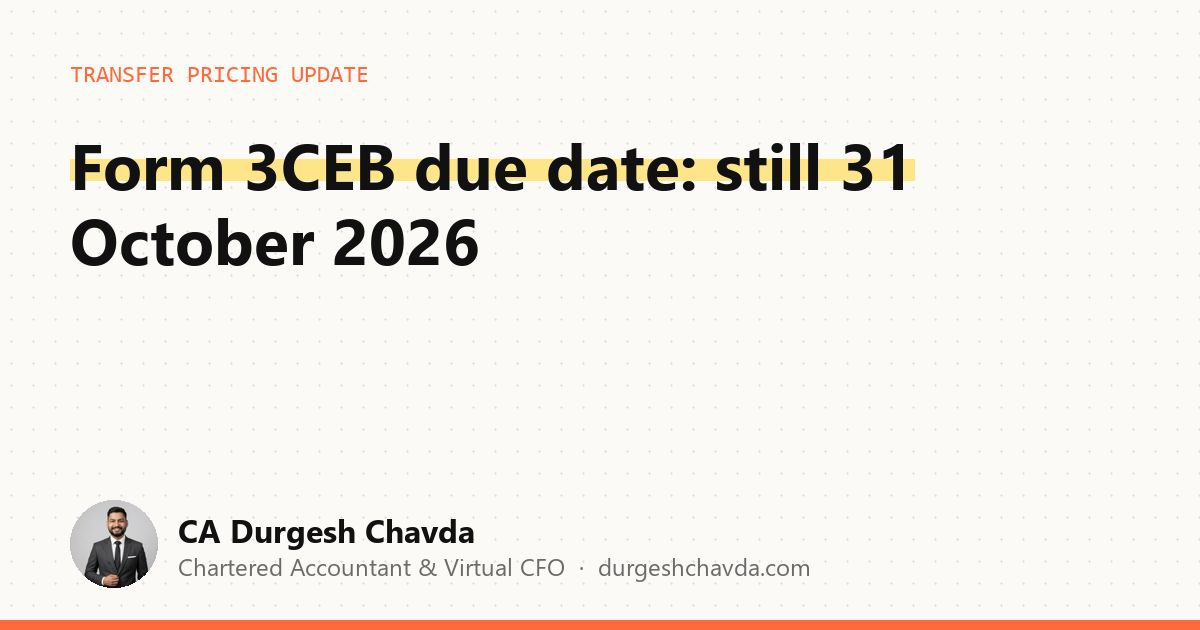
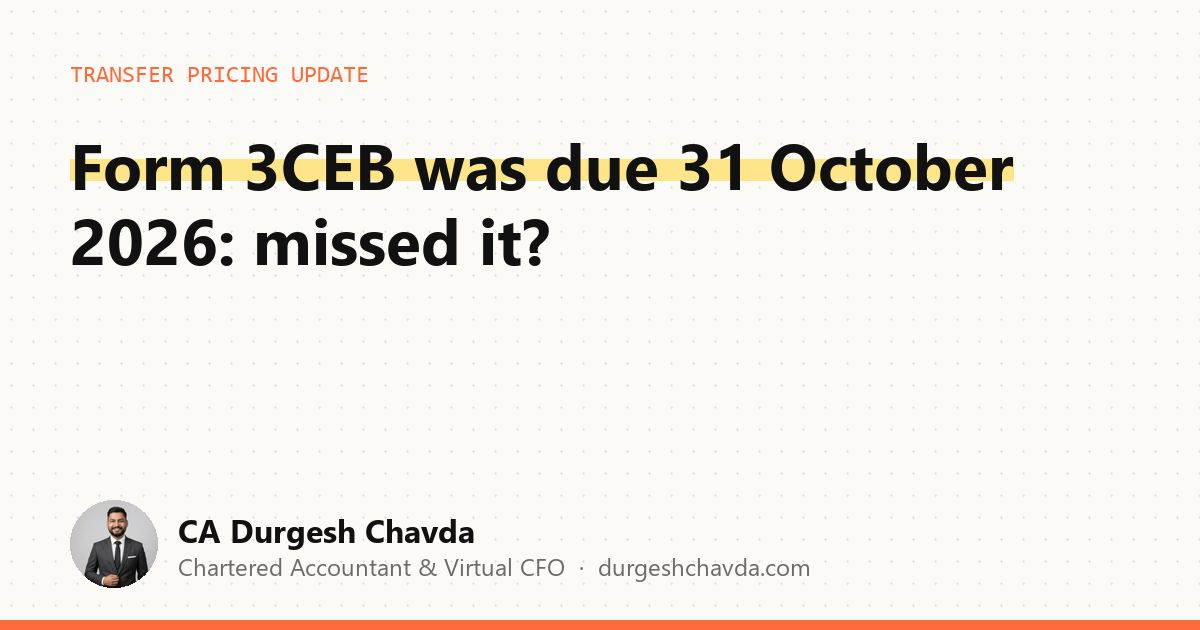
Form 3CEB page: H1 matches 'missed it' framing (31 Oct passed)

Changed region(s): [[0.3392, 0.2111, 0.8633, 0.3016], [0.0617, 0.3317, 0.4625, 0.4222]]

diff --git a/insights/form-3ceb-due-date-ay-2026-27/index.html b/insights/form-3ceb-due-date-ay-2026-27/index.html
@@ -62,7 +62,7 @@
   {
    "@type": "BlogPosting",
    "@id": "https://www.durgeshchavda.com/insights/form-3ceb-due-date-ay-2026-27/#article",
-   "headline": "Form 3CEB due date: still 31 October 2026",
+   "headline": "Form 3CEB was due 31 October 2026: missed it?",
    "description": "Form 3CEB was due 31 Oct 2026, with no extension for transfer-pricing cases. Missed it? File now: ₹1 lakh penalty, reasonable cause, ITR by 30 Nov.",
    "url": "https://www.durgeshchavda.com/insights/form-3ceb-due-date-ay-2026-27/",
    "mainEntityOfPage": "https://www.durgeshchavda.com/insights/form-3ceb-due-date-ay-2026-27/",
@@ -229,7 +229,7 @@
   <div class="wrap">
     <nav class="crumbs rv" aria-label="Breadcrumb"><a href="/">Home</a> <span>/</span> <a href="/insights/">Insights</a> <span>/</span> <span aria-current="page">Form 3CEB due date</span></nav>
     <div class="eyebrow rv" style="margin-top:26px"><svg><use href="#sq-sm"/></svg>Transfer pricing update</div>
-    <h1 class="rv">Form 3CEB due date: <mark>still 31 October 2026</mark></h1>
+    <h1 class="rv">Form 3CEB was due <mark>31 October 2026</mark>: missed it?</h1>
     <p class="lead rv">CBDT&rsquo;s Circular 7/2026 gave audit cases until 21 October and 21 November — but it didn&rsquo;t cover transfer-pricing cases. If your company has international transactions with group entities, plan for 31 October.</p>
     <div class="byline"><picture><source type="image/webp" srcset="/assets/durgesh-thumb-144.webp"/><img src="/assets/durgesh-thumb-144.jpg" alt="CA Durgesh Chavda" width="34" height="34"/></picture><span>By <a href="/about/" rel="author" style="color:var(--ink)">CA Durgesh Chavda</a></span><span>·</span><span>Last reviewed <time datetime="2026-11-01">1 November 2026</time></span><span>·</span><span>5 min read</span></div>
     <div class="hero-ctas rv">
